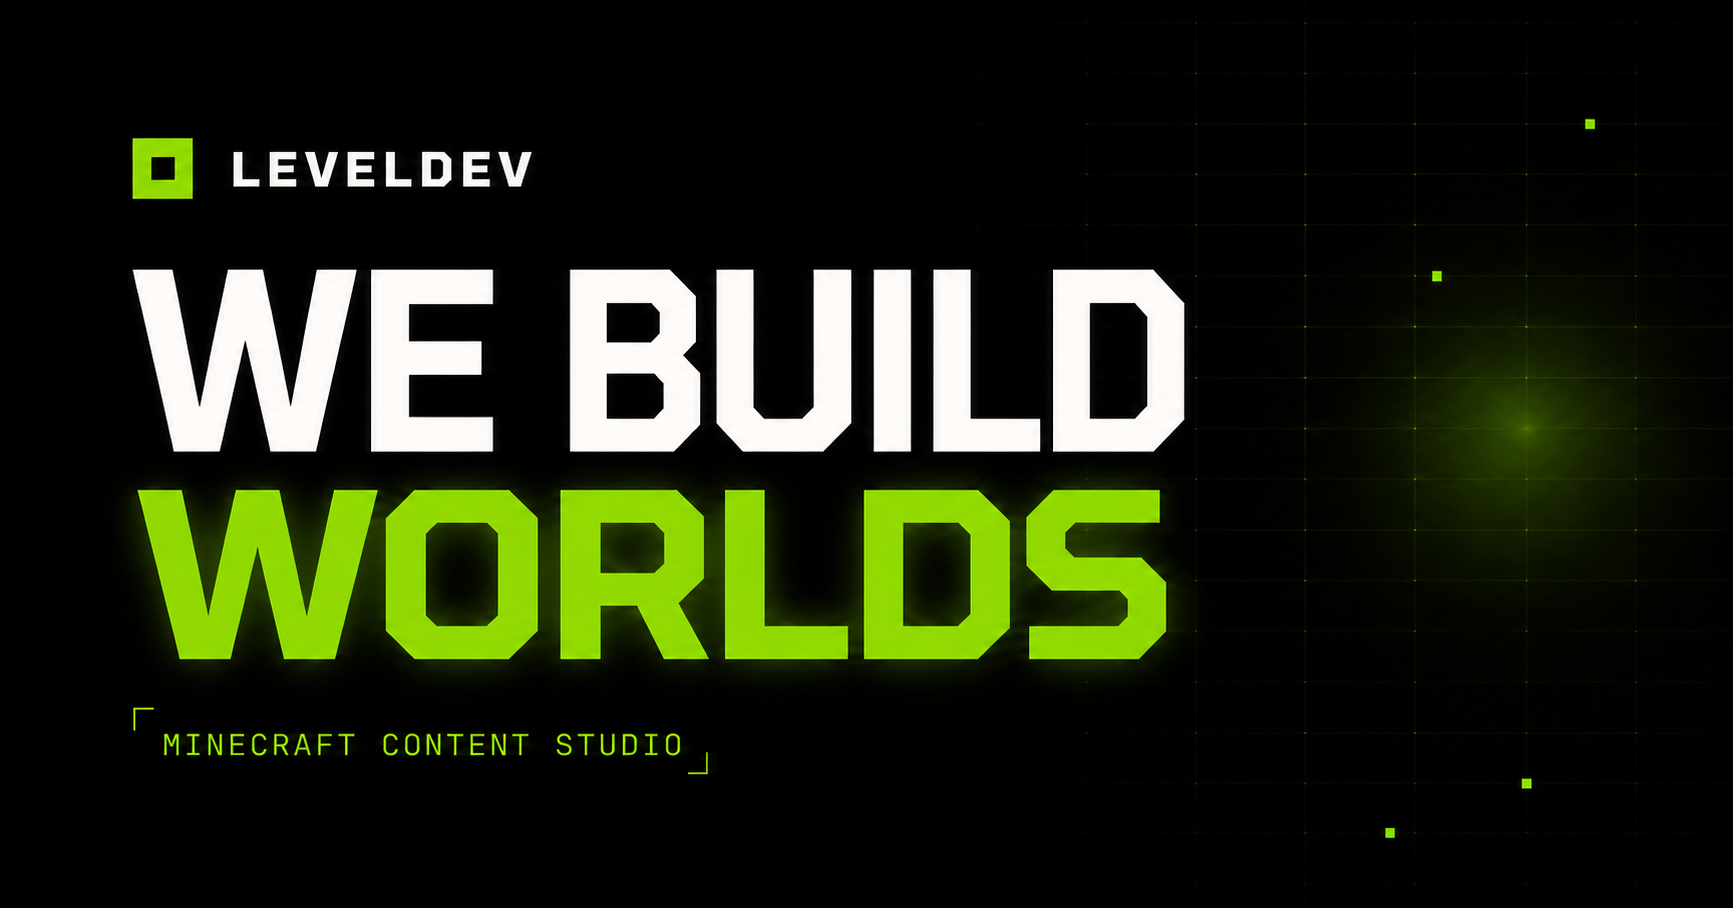
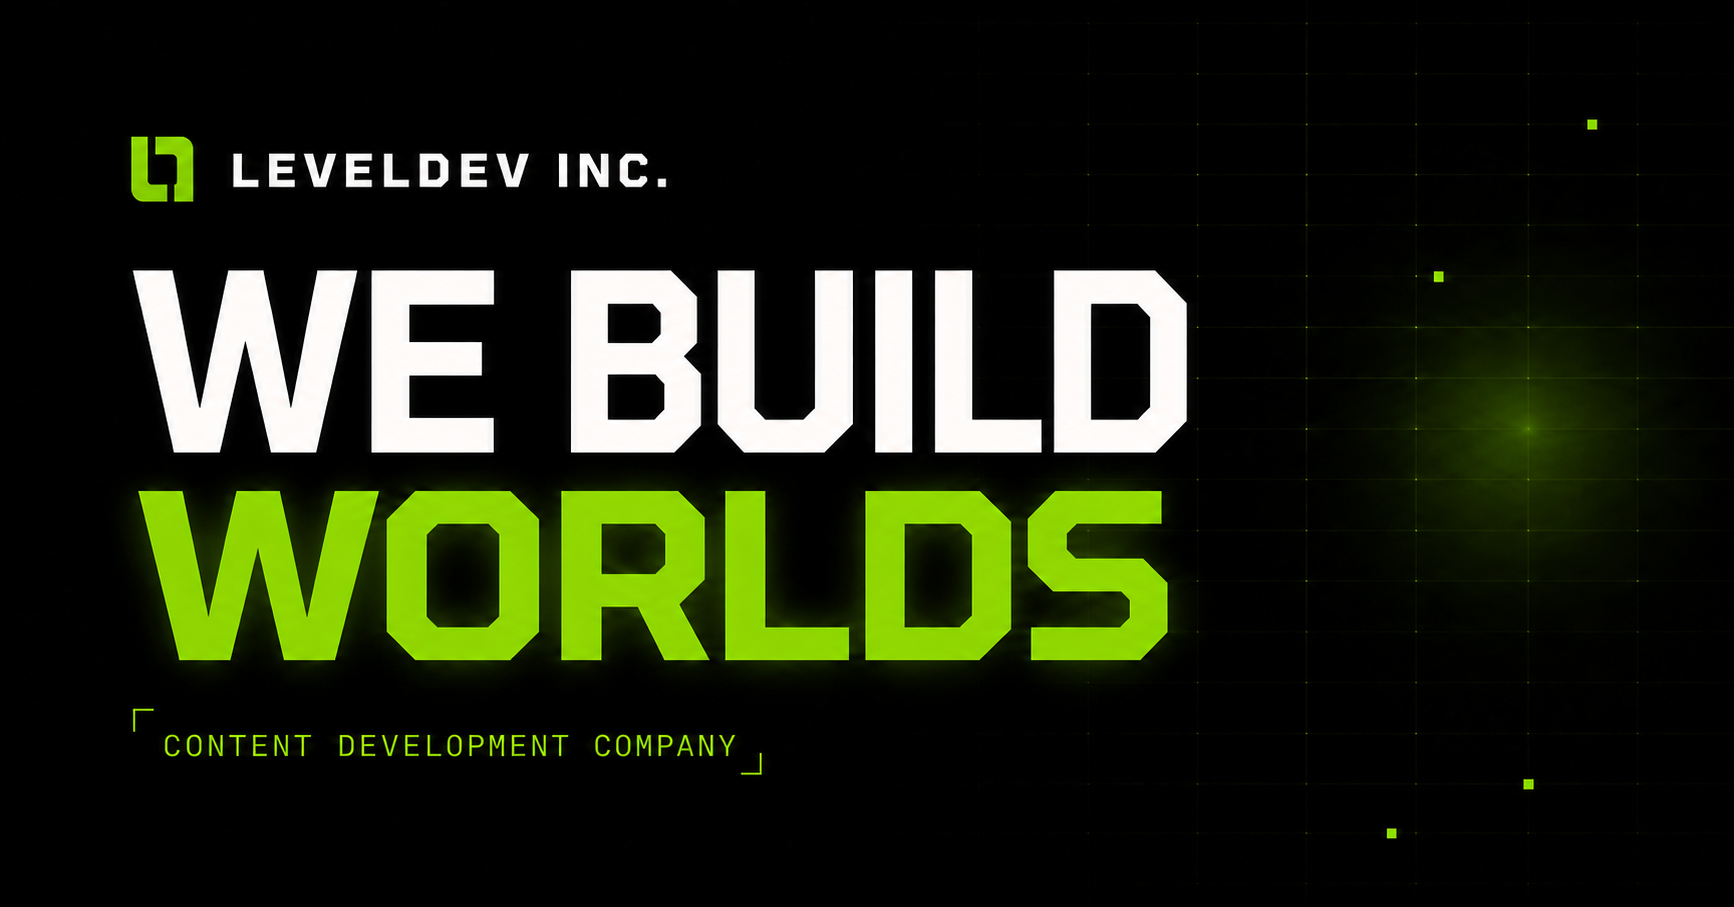
Rebrand site as LevelDev Inc

diff --git a/app/page.tsx b/app/page.tsx
@@ -4,7 +4,7 @@ import VideoShowcase from "./components/video-showcase";
 const stats = [
   { value: "10+", label: "완료 작업" },
   { value: "10M+", label: "누적 콘텐츠 조회수" },
-  { value: "5년+", label: "스튜디오 경력" },
+  { value: "5년+", label: "콘텐츠 개발 경력" },
   { value: "10+", label: "파트너십" },
 ];
 
@@ -234,7 +234,7 @@ export default function Home() {
         <div className="signal signal-b" aria-hidden="true" />
         <div className="signal signal-c" aria-hidden="true" />
         <div className="container hero-content">
-          <p className="eyebrow">CONTENT DEVELOPMENT STUDIO</p>
+          <p className="eyebrow">CONTENT DEVELOPMENT COMPANY</p>
           <h1>
             WE BUILD
             <span>CONTENT</span>
@@ -265,12 +265,12 @@ export default function Home() {
             <h2 className="display-title">
               기획부터 운영까지
               <br />
-              <span>연결하는 스튜디오</span>
+              <span>연결하는 콘텐츠 기업</span>
             </h2>
             <p className="section-copy">
-              LevelDev는 크리에이터, 브랜드, 플랫폼의 아이디어를 실제 콘텐츠로
-              구현하는 개발 스튜디오입니다. 목적과 타깃을 정의하고 기획, 디자인,
-              개발, 운영을 하나의 흐름으로 연결합니다.
+              LevelDev Inc.는 크리에이터, 브랜드, 플랫폼의 아이디어를 실제
+              콘텐츠로 구현하는 콘텐츠 개발사입니다. 목적과 타깃을 정의하고
+              기획, 디자인, 개발, 운영을 하나의 흐름으로 연결합니다.
             </p>
             <p className="section-copy dim">
               게임과 스트리밍 생태계에서 쌓은 제작 경험을 바탕으로 참여형 콘텐츠,
@@ -453,7 +453,7 @@ export default function Home() {
                 <strong>모집 중</strong>
               </li>
             </ul>
-            <a className="button button-primary contact-button" href="mailto:jobs@leveldev.studio">
+            <a className="button button-primary contact-button" href="mailto:contact@leveldev.net">
               지원 메일 보내기 <span>↗</span>
             </a>
           </aside>
@@ -491,8 +491,8 @@ export default function Home() {
           </div>
           <div className="footer-links">
             <div>
-              <strong>STUDIO</strong>
-              <a href="#about">스튜디오 소개</a>
+              <strong>COMPANY</strong>
+              <a href="#about">회사 소개</a>
               <a href="#partners">파트너</a>
               <a href="#contact">채용</a>
             </div>

diff --git a/app/globals.css b/app/globals.css
@@ -834,7 +834,7 @@ a {
 
 .video-stage {
   display: grid;
-  grid-template-columns: minmax(0, 1.62fr) minmax(320px, 0.78fr);
+  grid-template-columns: minmax(0, 1.72fr) minmax(310px, 0.68fr);
   overflow: hidden;
   border: 1px solid var(--line);
   background: #050806;
@@ -843,7 +843,7 @@ a {
 .video-stage-media {
   position: relative;
   display: block;
-  min-height: 440px;
+  min-height: 470px;
   overflow: hidden;
   background: #000;
 }
@@ -1062,12 +1062,15 @@ a {
 }
 
 .video-selector {
-  display: flex;
   position: relative;
+  display: grid;
   min-width: 0;
-  flex-direction: column;
+  min-height: 108px;
+  grid-template-columns: 138px minmax(0, 1fr);
+  align-items: center;
+  gap: 15px;
   overflow: hidden;
-  padding: 0;
+  padding: 12px;
   border: 1px solid var(--line);
   color: inherit;
   background: #050806;
@@ -1091,7 +1094,7 @@ a {
 .video-selector-image {
   position: relative;
   display: block;
-  width: 100%;
+  width: 138px;
   overflow: hidden;
   background: #000;
 }
@@ -1125,9 +1128,9 @@ a {
 .video-selector-copy {
   display: flex;
   min-width: 0;
-  min-height: 150px;
+  min-height: 0;
   flex-direction: column;
-  padding: 18px 19px 20px;
+  padding: 2px 0;
 }
 
 .video-selector-copy small,
@@ -1140,8 +1143,8 @@ a {
 .video-selector-copy strong {
   display: -webkit-box;
   overflow: hidden;
-  margin: 10px 0 14px;
-  font-size: 15px;
+  margin: 7px 0 9px;
+  font-size: 14px;
   font-weight: 600;
   line-height: 1.35;
   -webkit-box-orient: vertical;
@@ -1670,7 +1673,7 @@ footer {
   }
 
   .video-stage-media {
-    min-height: 510px;
+    min-height: 560px;
   }
 
   .video-stage-info {
@@ -1691,11 +1694,16 @@ footer {
   }
 
   .video-selector-copy strong {
-    font-size: 17px;
+    font-size: 16px;
   }
 
-  .video-selector-copy {
-    min-height: 166px;
+  .video-selector {
+    min-height: 120px;
+    grid-template-columns: 160px minmax(0, 1fr);
+  }
+
+  .video-selector-image {
+    width: 160px;
   }
 
   .notice-grid article {
@@ -2025,12 +2033,19 @@ footer {
   }
 
   .video-selector {
-    min-height: 0;
+    min-height: 94px;
+    grid-template-columns: 112px minmax(0, 1fr);
+    gap: 12px;
+    padding: 10px;
   }
 
   .video-selector-copy {
-    min-height: 142px;
-    padding: 16px;
+    min-height: 0;
+    padding: 0;
+  }
+
+  .video-selector-image {
+    width: 112px;
   }
 
   .video-queue-arrows button {

diff --git a/app/layout.tsx b/app/layout.tsx
@@ -14,9 +14,9 @@ const geistMono = Geist_Mono({
 
 export const metadata: Metadata = {
   metadataBase: new URL("https://leveldev-studio-home.lede-7716.chatgpt.site"),
-  title: "LevelDev Studio — 콘텐츠 기획·개발·운영",
+  title: "LevelDev Inc. — 콘텐츠 기획·개발·운영",
   description:
-    "크리에이터, 브랜드, 플랫폼을 위한 콘텐츠 기획, 인터랙티브 개발, 기술 운영 서비스를 제공하는 크리에이티브 스튜디오 LevelDev입니다.",
+    "크리에이터, 브랜드, 플랫폼을 위한 콘텐츠 기획, 인터랙티브 개발, 기술 운영 서비스를 제공하는 콘텐츠 개발사 LevelDev Inc.입니다.",
   keywords: [
     "콘텐츠 개발",
     "콘텐츠 제작",
@@ -31,25 +31,25 @@ export const metadata: Metadata = {
     shortcut: "/logo.svg",
   },
   openGraph: {
-    title: "LevelDev Studio — We Build Content",
+    title: "LevelDev Inc. — We Build Content",
     description:
-      "기획부터 제작, 기술 개발과 운영까지 콘텐츠의 전 과정을 함께하는 크리에이티브 스튜디오.",
+      "기획부터 제작, 기술 개발과 운영까지 콘텐츠의 전 과정을 함께하는 콘텐츠 개발사.",
     type: "website",
     locale: "ko_KR",
     images: [
       {
         url: "/og.png",
-        width: 1733,
-        height: 908,
-        alt: "LevelDev Studio — Content Development Studio",
+        width: 1734,
+        height: 907,
+        alt: "LevelDev Inc. — Content Development Company",
       },
     ],
   },
   twitter: {
     card: "summary_large_image",
-    title: "LevelDev Studio — We Build Content",
+    title: "LevelDev Inc. — We Build Content",
     description:
-      "기획부터 제작, 기술 개발과 운영까지 콘텐츠의 전 과정을 함께하는 크리에이티브 스튜디오.",
+      "기획부터 제작, 기술 개발과 운영까지 콘텐츠의 전 과정을 함께하는 콘텐츠 개발사.",
     images: ["/og.png"],
   },
 };
